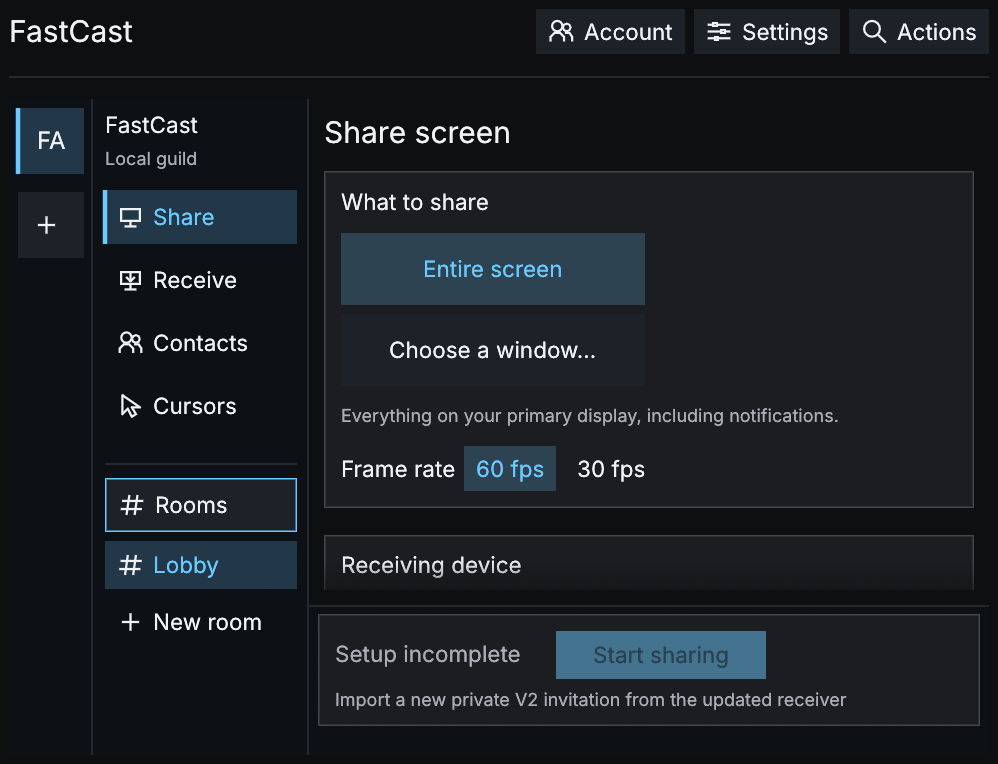
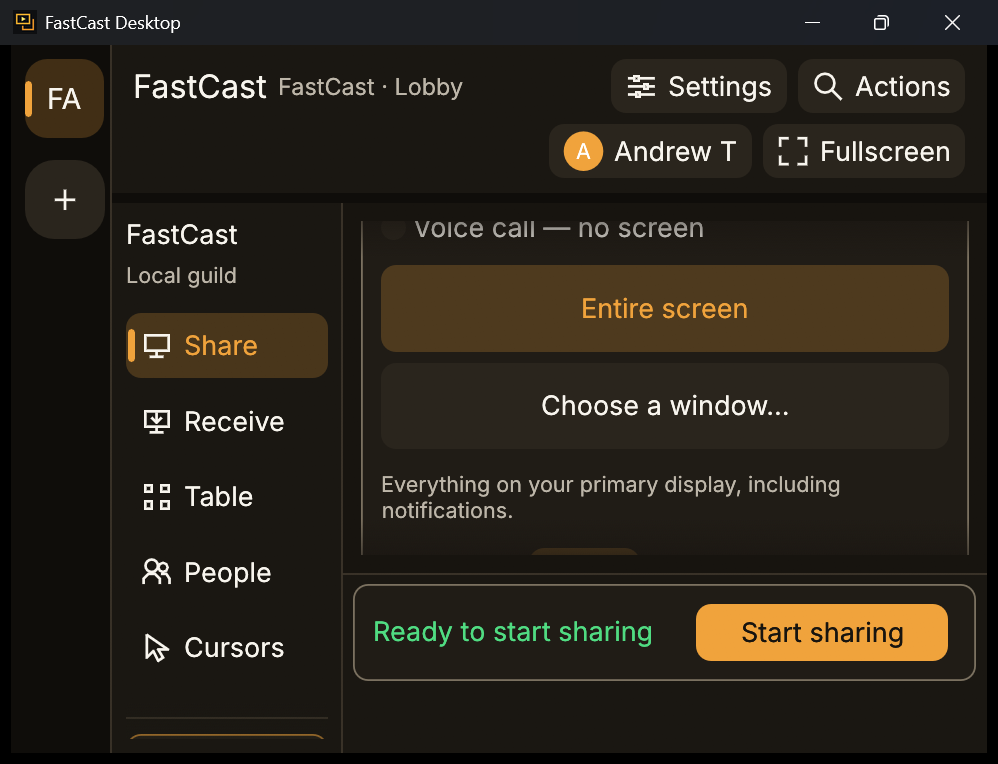
site: recapture app screenshots in the site-synced Gold theme; update capture provenance

Changed region(s): [[0.0, 0.0, 0.994, 0.9634], [0.3106, 0.0, 0.994, 0.2408]]

diff --git a/product.html b/product.html
@@ -44,10 +44,10 @@
 <section class="section wrap" id="screenshots"><div class="section-heading"><div><h2>Windows Share interface</h2></div><p>An unchanged capture of the Windows app from 7 Sep 2026. It shows the real interface; small details can differ from the 0.3.3 Preview 1 package.</p></div>
 <figure class="screenshot">
   <a class="image-open" href="assets/windows-share.png" data-lightbox aria-label="Enlarge Windows Share screenshot">
-    <img src="assets/windows-share.png" width="1770" height="1170" alt="Windows Share in Pyrenet: screen and window selection, audio controls, and the receiving-device invitation." fetchpriority="high">
+    <img src="assets/windows-share.png" width="1770" height="1170" alt="Windows Share in Pyrenet: screen or window selection, frame rate and picture detail, audio controls, and Start sharing." fetchpriority="high">
     <span class="image-action" aria-hidden="true">View full size ↗</span>
   </a>
-  <figcaption>Windows Share from a September 7, 2026 development capture. The public download is 0.3.3 Preview 1. Not a live session.</figcaption>
+  <figcaption>Windows Share from a September 18, 2026 development capture. The public download is 0.3.3 Preview 1. Not a live session.</figcaption>
 </figure>
 </section>
 <section class="section wrap" id="controls"><div class="section-heading"><div><h2>Set up a screen share</h2></div></div><div class="use-cases"><article><span class="step-number">01</span><h3>Pick the source</h3><p>Choose an entire screen or a single window. Sharing an entire screen can expose notifications and other open applications.</p></article><article><span class="step-number">02</span><h3>Invite from the viewer</h3><p>Create the invitation on the watching device and send it privately to the sharing PC for import.</p></article><article><span class="step-number">03</span><h3>Sound and control are separate</h3><p>Computer audio, microphone, and remote input each have a separate switch. <a href="#permissions">Read about the permissions</a>.</p></article></div></section>
@@ -77,7 +77,7 @@
     <img src="assets/windows-compact.png" width="998" height="764" alt="Windows Share in a smaller Pyrenet window, with the native scroll area visible." loading="lazy">
     <span class="image-action" aria-hidden="true">View full size ↗</span>
   </a>
-  <figcaption>Share in a smaller window, September 7, 2026 development capture.</figcaption>
+  <figcaption>Share in a smaller window, September 18, 2026 development capture.</figcaption>
 </figure></div></section>
 <section class="light-panel" id="capabilities">
 <span id="scope" hidden></span>
@@ -130,6 +130,6 @@
     <nav aria-label="More"><h2>More</h2><a href="why-pyrenet.html">Why Pyrenet</a><a href="calls-and-rooms.html">Calls & rooms</a><a href="how-it-works.html">How it works</a><a href="roadmap.html">Roadmap</a><a href="bandwidth.html">Bandwidth calculator</a><a href="data-and-privacy.html">Data & privacy compared</a></nav>
     <div class="footer-bottom"><span>Windows sends · Windows or Android watches · Preview</span><a href="https://github.com/antis0007/fastcast-downloads">GitHub ↗</a><a href="https://github.com/antis0007/fastcast-downloads/blob/main/LICENSE">MIT OR Apache-2.0 ↗</a></div>
   </footer>
-  <dialog class="image-dialog" aria-label="Full-size app screenshot"><form method="dialog"><button class="button" aria-label="Close screenshot">Close <span aria-hidden="true">×</span></button></form><div class="image-scroll"><img alt=""></div><p>Windows Share from a September 7, 2026 development capture. The public download is 0.3.3 Preview 1. Not a live session.</p></dialog>
+  <dialog class="image-dialog" aria-label="Full-size app screenshot"><form method="dialog"><button class="button" aria-label="Close screenshot">Close <span aria-hidden="true">×</span></button></form><div class="image-scroll"><img alt=""></div><p>Windows Share from a September 18, 2026 development capture. The public download is 0.3.3 Preview 1. Not a live session.</p></dialog>
 </body>
 </html>

diff --git a/index.html b/index.html
@@ -61,7 +61,7 @@
     <img src="assets/windows-compact.png" width="998" height="764" alt="Windows Share in a smaller Pyrenet window, with the native scroll area visible." fetchpriority="high">
     <span class="image-action" aria-hidden="true">View full size ↗</span>
   </a>
-  <figcaption>Share in a smaller window, September 7, 2026 development capture.</figcaption>
+  <figcaption>Share in a smaller window, September 18, 2026 development capture.</figcaption>
 </figure>
   </div>
 </section>
@@ -74,10 +74,10 @@
     </div>
     <figure class="screenshot">
   <a class="image-open" href="assets/windows-share.png" data-lightbox aria-label="Enlarge Windows Share screenshot">
-    <img src="assets/windows-share.png" width="1770" height="1170" alt="Windows Share in Pyrenet: screen and window selection, audio controls, and the receiving-device invitation." fetchpriority="high">
+    <img src="assets/windows-share.png" width="1770" height="1170" alt="Windows Share in Pyrenet: screen or window selection, frame rate and picture detail, audio controls, and Start sharing." fetchpriority="high">
     <span class="image-action" aria-hidden="true">View full size ↗</span>
   </a>
-  <figcaption>Windows Share from a September 7, 2026 development capture. The public download is 0.3.3 Preview 1. Not a live session. <a href="product.html#screenshots">About these screenshots</a>.</figcaption>
+  <figcaption>Windows Share from a September 18, 2026 development capture. The public download is 0.3.3 Preview 1. Not a live session. <a href="product.html#screenshots">About these screenshots</a>.</figcaption>
 </figure>
     <div class="permissions">
       <div class="permissions-heading"><h3>Audio and<br>remote control</h3><p>Audio, microphone and remote input each have their own switch, and they all start off.</p></div>
@@ -232,6 +232,6 @@
     <nav aria-label="More"><h2>More</h2><a href="why-pyrenet.html">Why Pyrenet</a><a href="calls-and-rooms.html">Calls & rooms</a><a href="how-it-works.html">How it works</a><a href="roadmap.html">Roadmap</a><a href="bandwidth.html">Bandwidth calculator</a><a href="data-and-privacy.html">Data & privacy compared</a></nav>
     <div class="footer-bottom"><span>Windows sends · Windows or Android watches · Preview</span><a href="https://github.com/antis0007/fastcast-downloads">GitHub ↗</a><a href="https://github.com/antis0007/fastcast-downloads/blob/main/LICENSE">MIT OR Apache-2.0 ↗</a></div>
   </footer>
-  <dialog class="image-dialog" aria-label="Full-size app screenshot"><form method="dialog"><button class="button" aria-label="Close screenshot">Close <span aria-hidden="true">×</span></button></form><div class="image-scroll"><img alt=""></div><p>Windows Share from a September 7, 2026 development capture. The public download is 0.3.3 Preview 1. Not a live session.</p></dialog>
+  <dialog class="image-dialog" aria-label="Full-size app screenshot"><form method="dialog"><button class="button" aria-label="Close screenshot">Close <span aria-hidden="true">×</span></button></form><div class="image-scroll"><img alt=""></div><p>Windows Share from a September 18, 2026 development capture. The public download is 0.3.3 Preview 1. Not a live session.</p></dialog>
 </body>
 </html>

diff --git a/releases.html b/releases.html
@@ -123,7 +123,7 @@
   <p>First published preview ZIP and APK for testing. Historical release; use the current preview unless you need to compare an older package.</p>
   <a class="text-link" href="https://github.com/antis0007/fastcast-downloads/releases/tag/v0.3.0-preview.1">View archived release ↗</a>
 </article></section>
-<section class="wrap statement"><h2>Screenshots and release versions</h2><p>The screenshots on this site come from a development interface captured September 7, 2026, so they can differ in detail from the package behind a given tag. Use the version and file links in each release entry to identify the package you are downloading.</p></section>
+<section class="wrap statement"><h2>Screenshots and release versions</h2><p>The screenshots on this site come from a development interface captured September 18, 2026, so they can differ in detail from the package behind a given tag. Use the version and file links in each release entry to identify the package you are downloading.</p></section>
 </main>
   <footer class="site-footer wrap">
     <div class="footer-intro"><a class="brand footer-brand" href="index.html" aria-label="Pyrenet home"><img class="brand-mark" src="assets/fastcast-wizard.webp" width="1203" height="926" alt=""><span class="brand-wordmark">Pyrenet</span></a><p>Screen sharing with a little magic and careful networking.</p><p class="small-copy">Screen sharing does not require an account. Friends and calls use a device-owned account in this development preview.</p><p class="small-copy">Native application source is maintained separately. This repository publishes the website and preview packages only.</p></div>
@@ -132,6 +132,6 @@
     <nav aria-label="More"><h2>More</h2><a href="why-pyrenet.html">Why Pyrenet</a><a href="calls-and-rooms.html">Calls & rooms</a><a href="how-it-works.html">How it works</a><a href="roadmap.html">Roadmap</a><a href="bandwidth.html">Bandwidth calculator</a><a href="data-and-privacy.html">Data & privacy compared</a></nav>
     <div class="footer-bottom"><span>Windows sends · Windows or Android watches · Preview</span><a href="https://github.com/antis0007/fastcast-downloads">GitHub ↗</a><a href="https://github.com/antis0007/fastcast-downloads/blob/main/LICENSE">MIT OR Apache-2.0 ↗</a></div>
   </footer>
-  <dialog class="image-dialog" aria-label="Full-size app screenshot"><form method="dialog"><button class="button" aria-label="Close screenshot">Close <span aria-hidden="true">×</span></button></form><div class="image-scroll"><img alt=""></div><p>Windows Share from a September 7, 2026 development capture. The public download is 0.3.3 Preview 1. Not a live session.</p></dialog>
+  <dialog class="image-dialog" aria-label="Full-size app screenshot"><form method="dialog"><button class="button" aria-label="Close screenshot">Close <span aria-hidden="true">×</span></button></form><div class="image-scroll"><img alt=""></div><p>Windows Share from a September 18, 2026 development capture. The public download is 0.3.3 Preview 1. Not a live session.</p></dialog>
 </body>
 </html>

diff --git a/404.html b/404.html
@@ -48,6 +48,6 @@
     <nav aria-label="More"><h2>More</h2><a href="https://antis0007.github.io/fastcast-downloads/why-pyrenet.html">Why Pyrenet</a><a href="https://antis0007.github.io/fastcast-downloads/calls-and-rooms.html">Calls & rooms</a><a href="https://antis0007.github.io/fastcast-downloads/how-it-works.html">How it works</a><a href="https://antis0007.github.io/fastcast-downloads/roadmap.html">Roadmap</a><a href="https://antis0007.github.io/fastcast-downloads/bandwidth.html">Bandwidth calculator</a><a href="https://antis0007.github.io/fastcast-downloads/data-and-privacy.html">Data & privacy compared</a></nav>
     <div class="footer-bottom"><span>Windows sends · Windows or Android watches · Preview</span><a href="https://github.com/antis0007/fastcast-downloads">GitHub ↗</a><a href="https://github.com/antis0007/fastcast-downloads/blob/main/LICENSE">MIT OR Apache-2.0 ↗</a></div>
   </footer>
-  <dialog class="image-dialog" aria-label="Full-size app screenshot"><form method="dialog"><button class="button" aria-label="Close screenshot">Close <span aria-hidden="true">×</span></button></form><div class="image-scroll"><img alt=""></div><p>Windows Share from a September 7, 2026 development capture. The public download is 0.3.3 Preview 1. Not a live session.</p></dialog>
+  <dialog class="image-dialog" aria-label="Full-size app screenshot"><form method="dialog"><button class="button" aria-label="Close screenshot">Close <span aria-hidden="true">×</span></button></form><div class="image-scroll"><img alt=""></div><p>Windows Share from a September 18, 2026 development capture. The public download is 0.3.3 Preview 1. Not a live session.</p></dialog>
 </body>
 </html>

diff --git a/how-it-works.html b/how-it-works.html
@@ -131,6 +131,6 @@
     <nav aria-label="More"><h2>More</h2><a href="why-pyrenet.html">Why Pyrenet</a><a href="calls-and-rooms.html">Calls & rooms</a><a href="how-it-works.html" aria-current="page">How it works</a><a href="roadmap.html">Roadmap</a><a href="bandwidth.html">Bandwidth calculator</a><a href="data-and-privacy.html">Data & privacy compared</a></nav>
     <div class="footer-bottom"><span>Windows sends · Windows or Android watches · Preview</span><a href="https://github.com/antis0007/fastcast-downloads">GitHub ↗</a><a href="https://github.com/antis0007/fastcast-downloads/blob/main/LICENSE">MIT OR Apache-2.0 ↗</a></div>
   </footer>
-  <dialog class="image-dialog" aria-label="Full-size app screenshot"><form method="dialog"><button class="button" aria-label="Close screenshot">Close <span aria-hidden="true">×</span></button></form><div class="image-scroll"><img alt=""></div><p>Windows Share from a September 7, 2026 development capture. The public download is 0.3.3 Preview 1. Not a live session.</p></dialog>
+  <dialog class="image-dialog" aria-label="Full-size app screenshot"><form method="dialog"><button class="button" aria-label="Close screenshot">Close <span aria-hidden="true">×</span></button></form><div class="image-scroll"><img alt=""></div><p>Windows Share from a September 18, 2026 development capture. The public download is 0.3.3 Preview 1. Not a live session.</p></dialog>
 </body>
 </html>

diff --git a/bandwidth.html b/bandwidth.html
@@ -74,6 +74,6 @@
     <nav aria-label="More"><h2>More</h2><a href="why-pyrenet.html">Why Pyrenet</a><a href="calls-and-rooms.html">Calls & rooms</a><a href="how-it-works.html">How it works</a><a href="roadmap.html">Roadmap</a><a href="bandwidth.html" aria-current="page">Bandwidth calculator</a><a href="data-and-privacy.html">Data & privacy compared</a></nav>
     <div class="footer-bottom"><span>Windows sends · Windows or Android watches · Preview</span><a href="https://github.com/antis0007/fastcast-downloads">GitHub ↗</a><a href="https://github.com/antis0007/fastcast-downloads/blob/main/LICENSE">MIT OR Apache-2.0 ↗</a></div>
   </footer>
-  <dialog class="image-dialog" aria-label="Full-size app screenshot"><form method="dialog"><button class="button" aria-label="Close screenshot">Close <span aria-hidden="true">×</span></button></form><div class="image-scroll"><img alt=""></div><p>Windows Share from a September 7, 2026 development capture. The public download is 0.3.3 Preview 1. Not a live session.</p></dialog>
+  <dialog class="image-dialog" aria-label="Full-size app screenshot"><form method="dialog"><button class="button" aria-label="Close screenshot">Close <span aria-hidden="true">×</span></button></form><div class="image-scroll"><img alt=""></div><p>Windows Share from a September 18, 2026 development capture. The public download is 0.3.3 Preview 1. Not a live session.</p></dialog>
 </body>
 </html>

diff --git a/calls-and-rooms.html b/calls-and-rooms.html
@@ -97,6 +97,6 @@
     <nav aria-label="More"><h2>More</h2><a href="why-pyrenet.html">Why Pyrenet</a><a href="calls-and-rooms.html" aria-current="page">Calls & rooms</a><a href="how-it-works.html">How it works</a><a href="roadmap.html">Roadmap</a><a href="bandwidth.html">Bandwidth calculator</a><a href="data-and-privacy.html">Data & privacy compared</a></nav>
     <div class="footer-bottom"><span>Windows sends · Windows or Android watches · Preview</span><a href="https://github.com/antis0007/fastcast-downloads">GitHub ↗</a><a href="https://github.com/antis0007/fastcast-downloads/blob/main/LICENSE">MIT OR Apache-2.0 ↗</a></div>
   </footer>
-  <dialog class="image-dialog" aria-label="Full-size app screenshot"><form method="dialog"><button class="button" aria-label="Close screenshot">Close <span aria-hidden="true">×</span></button></form><div class="image-scroll"><img alt=""></div><p>Windows Share from a September 7, 2026 development capture. The public download is 0.3.3 Preview 1. Not a live session.</p></dialog>
+  <dialog class="image-dialog" aria-label="Full-size app screenshot"><form method="dialog"><button class="button" aria-label="Close screenshot">Close <span aria-hidden="true">×</span></button></form><div class="image-scroll"><img alt=""></div><p>Windows Share from a September 18, 2026 development capture. The public download is 0.3.3 Preview 1. Not a live session.</p></dialog>
 </body>
 </html>

diff --git a/data-and-privacy.html b/data-and-privacy.html
@@ -66,6 +66,6 @@
     <nav aria-label="More"><h2>More</h2><a href="why-pyrenet.html">Why Pyrenet</a><a href="calls-and-rooms.html">Calls & rooms</a><a href="how-it-works.html">How it works</a><a href="roadmap.html">Roadmap</a><a href="bandwidth.html">Bandwidth calculator</a><a href="data-and-privacy.html" aria-current="page">Data & privacy compared</a></nav>
     <div class="footer-bottom"><span>Windows sends · Windows or Android watches · Preview</span><a href="https://github.com/antis0007/fastcast-downloads">GitHub ↗</a><a href="https://github.com/antis0007/fastcast-downloads/blob/main/LICENSE">MIT OR Apache-2.0 ↗</a></div>
   </footer>
-  <dialog class="image-dialog" aria-label="Full-size app screenshot"><form method="dialog"><button class="button" aria-label="Close screenshot">Close <span aria-hidden="true">×</span></button></form><div class="image-scroll"><img alt=""></div><p>Windows Share from a September 7, 2026 development capture. The public download is 0.3.3 Preview 1. Not a live session.</p></dialog>
+  <dialog class="image-dialog" aria-label="Full-size app screenshot"><form method="dialog"><button class="button" aria-label="Close screenshot">Close <span aria-hidden="true">×</span></button></form><div class="image-scroll"><img alt=""></div><p>Windows Share from a September 18, 2026 development capture. The public download is 0.3.3 Preview 1. Not a live session.</p></dialog>
 </body>
 </html>

diff --git a/roadmap.html b/roadmap.html
@@ -64,6 +64,6 @@
     <nav aria-label="More"><h2>More</h2><a href="why-pyrenet.html">Why Pyrenet</a><a href="calls-and-rooms.html">Calls & rooms</a><a href="how-it-works.html">How it works</a><a href="roadmap.html" aria-current="page">Roadmap</a><a href="bandwidth.html">Bandwidth calculator</a><a href="data-and-privacy.html">Data & privacy compared</a></nav>
     <div class="footer-bottom"><span>Windows sends · Windows or Android watches · Preview</span><a href="https://github.com/antis0007/fastcast-downloads">GitHub ↗</a><a href="https://github.com/antis0007/fastcast-downloads/blob/main/LICENSE">MIT OR Apache-2.0 ↗</a></div>
   </footer>
-  <dialog class="image-dialog" aria-label="Full-size app screenshot"><form method="dialog"><button class="button" aria-label="Close screenshot">Close <span aria-hidden="true">×</span></button></form><div class="image-scroll"><img alt=""></div><p>Windows Share from a September 7, 2026 development capture. The public download is 0.3.3 Preview 1. Not a live session.</p></dialog>
+  <dialog class="image-dialog" aria-label="Full-size app screenshot"><form method="dialog"><button class="button" aria-label="Close screenshot">Close <span aria-hidden="true">×</span></button></form><div class="image-scroll"><img alt=""></div><p>Windows Share from a September 18, 2026 development capture. The public download is 0.3.3 Preview 1. Not a live session.</p></dialog>
 </body>
 </html>

diff --git a/why-pyrenet.html b/why-pyrenet.html
@@ -64,6 +64,6 @@
     <nav aria-label="More"><h2>More</h2><a href="why-pyrenet.html" aria-current="page">Why Pyrenet</a><a href="calls-and-rooms.html">Calls & rooms</a><a href="how-it-works.html">How it works</a><a href="roadmap.html">Roadmap</a><a href="bandwidth.html">Bandwidth calculator</a><a href="data-and-privacy.html">Data & privacy compared</a></nav>
     <div class="footer-bottom"><span>Windows sends · Windows or Android watches · Preview</span><a href="https://github.com/antis0007/fastcast-downloads">GitHub ↗</a><a href="https://github.com/antis0007/fastcast-downloads/blob/main/LICENSE">MIT OR Apache-2.0 ↗</a></div>
   </footer>
-  <dialog class="image-dialog" aria-label="Full-size app screenshot"><form method="dialog"><button class="button" aria-label="Close screenshot">Close <span aria-hidden="true">×</span></button></form><div class="image-scroll"><img alt=""></div><p>Windows Share from a September 7, 2026 development capture. The public download is 0.3.3 Preview 1. Not a live session.</p></dialog>
+  <dialog class="image-dialog" aria-label="Full-size app screenshot"><form method="dialog"><button class="button" aria-label="Close screenshot">Close <span aria-hidden="true">×</span></button></form><div class="image-scroll"><img alt=""></div><p>Windows Share from a September 18, 2026 development capture. The public download is 0.3.3 Preview 1. Not a live session.</p></dialog>
 </body>
 </html>

diff --git a/get-started.html b/get-started.html
@@ -140,6 +140,6 @@
     <nav aria-label="More"><h2>More</h2><a href="why-pyrenet.html">Why Pyrenet</a><a href="calls-and-rooms.html">Calls & rooms</a><a href="how-it-works.html">How it works</a><a href="roadmap.html">Roadmap</a><a href="bandwidth.html">Bandwidth calculator</a><a href="data-and-privacy.html">Data & privacy compared</a></nav>
     <div class="footer-bottom"><span>Windows sends · Windows or Android watches · Preview</span><a href="https://github.com/antis0007/fastcast-downloads">GitHub ↗</a><a href="https://github.com/antis0007/fastcast-downloads/blob/main/LICENSE">MIT OR Apache-2.0 ↗</a></div>
   </footer>
-  <dialog class="image-dialog" aria-label="Full-size app screenshot"><form method="dialog"><button class="button" aria-label="Close screenshot">Close <span aria-hidden="true">×</span></button></form><div class="image-scroll"><img alt=""></div><p>Windows Share from a September 7, 2026 development capture. The public download is 0.3.3 Preview 1. Not a live session.</p></dialog>
+  <dialog class="image-dialog" aria-label="Full-size app screenshot"><form method="dialog"><button class="button" aria-label="Close screenshot">Close <span aria-hidden="true">×</span></button></form><div class="image-scroll"><img alt=""></div><p>Windows Share from a September 18, 2026 development capture. The public download is 0.3.3 Preview 1. Not a live session.</p></dialog>
 </body>
 </html>

diff --git a/community.html b/community.html
@@ -52,6 +52,6 @@
     <nav aria-label="More"><h2>More</h2><a href="why-pyrenet.html">Why Pyrenet</a><a href="calls-and-rooms.html">Calls & rooms</a><a href="how-it-works.html">How it works</a><a href="roadmap.html">Roadmap</a><a href="bandwidth.html">Bandwidth calculator</a><a href="data-and-privacy.html">Data & privacy compared</a></nav>
     <div class="footer-bottom"><span>Windows sends · Windows or Android watches · Preview</span><a href="https://github.com/antis0007/fastcast-downloads">GitHub ↗</a><a href="https://github.com/antis0007/fastcast-downloads/blob/main/LICENSE">MIT OR Apache-2.0 ↗</a></div>
   </footer>
-  <dialog class="image-dialog" aria-label="Full-size app screenshot"><form method="dialog"><button class="button" aria-label="Close screenshot">Close <span aria-hidden="true">×</span></button></form><div class="image-scroll"><img alt=""></div><p>Windows Share from a September 7, 2026 development capture. The public download is 0.3.3 Preview 1. Not a live session.</p></dialog>
+  <dialog class="image-dialog" aria-label="Full-size app screenshot"><form method="dialog"><button class="button" aria-label="Close screenshot">Close <span aria-hidden="true">×</span></button></form><div class="image-scroll"><img alt=""></div><p>Windows Share from a September 18, 2026 development capture. The public download is 0.3.3 Preview 1. Not a live session.</p></dialog>
 </body>
 </html>
